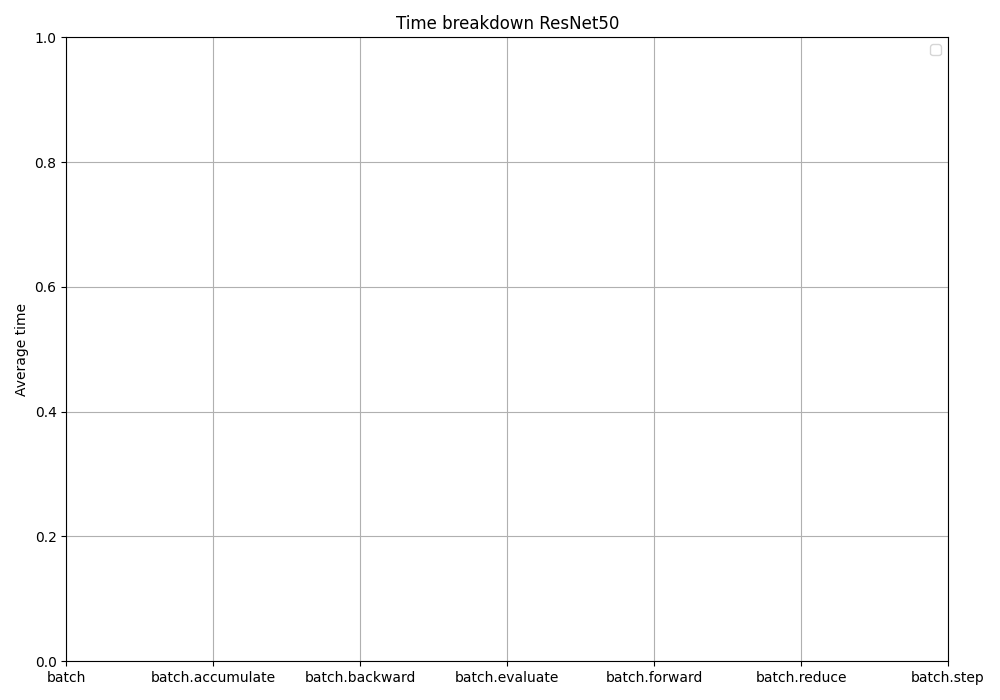
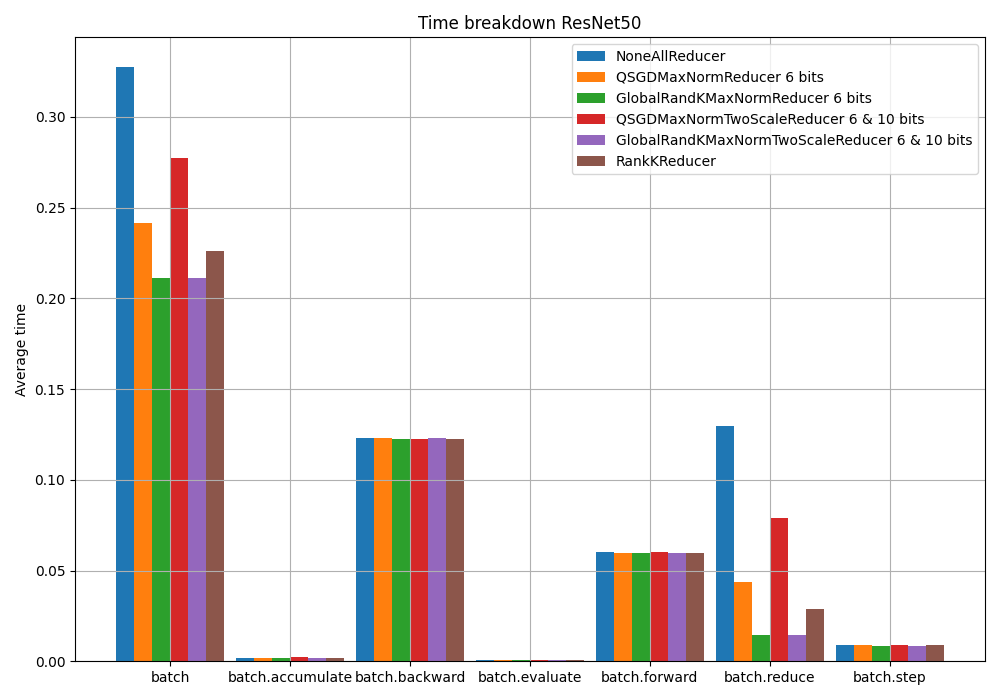
Add logs

diff --git a/socket_com.py b/socket_com.py
@@ -5,7 +5,7 @@ import threading
 
 
 class ServerTCP:
-    def __init__(self, HEADER=64, PORT=5050, SERVER=socket.gethostbyname(socket.gethostname())):
+    def __init__(self, HEADER=64, PORT=5050, MSG_SIZE=100000, SERVER=socket.gethostbyname(socket.gethostname())):
         self.HEADER = HEADER
         self.PORT = PORT
         self.SERVER = SERVER
@@ -28,6 +28,8 @@ class ServerTCP:
             self.RECV_BUF_SIZE)
 
         self.server.bind(self.ADDR)
+
+        self.vector = torch.zeros(MSG_SIZE)
 
         # buffsize = self.server.getsockopt(socket.SOL_SOCKET, socket.SO_SNDBUF)
         # print("Buffer size [After]:%d" % buffsize)
@@ -90,16 +92,23 @@ class ServerTCP:
                 print(f"[DROP CONNECTION] {addr} closed")
                 conn.shutdown(1)
                 conn.close()
+                continue
+
+            self.vector.index_add_(0, msg[:, 0].to(torch.int64), msg[:, 1])
+            print("Vector", self.vector)
 
     def start(self):
         self.server.listen()
         print(f"[LISTENING] Server is listening on {self.SERVER}")
 
-        while True:
-            conn, addr = self.server.accept()
-            thread = threading.Thread(target=self.handle_client, args=(conn, addr))
-            thread.start()
-            print(f"[ACTIVE CONNECTIONS] {threading.activeCount() - 1}")
+        try:
+            while True:
+                conn, addr = self.server.accept()
+                thread = threading.Thread(target=self.handle_client, args=(conn, addr))
+                thread.start()
+                print(f"[ACTIVE CONNECTIONS] {threading.activeCount() - 1}")
+        except KeyboardInterrupt:
+            self.stop()
 
     def stop(self):
         self.server.shutdown(1)
@@ -147,7 +156,7 @@ class ClientTCP:
 
 
 class ServerUDP:
-    def __init__(self, HEADER=64, PORT=5050, SERVER=socket.gethostbyname(socket.gethostname())):
+    def __init__(self, HEADER=64, PORT=5050, MSG_SIZE=100000, SERVER=socket.gethostbyname(socket.gethostname())):
         self.HEADER = HEADER
         self.PORT = PORT
         self.SERVER = SERVER
@@ -171,6 +180,8 @@ class ServerUDP:
 
         self.server.bind(self.ADDR)
 
+        self.vector = torch.zeros(MSG_SIZE)
+
     def encode(self, tensor):
         file = io.BytesIO()
         torch.save(tensor, file)
@@ -193,6 +204,9 @@ class ServerUDP:
         while readnext:
             msg, addr = self.server.recvfrom(1024 * 2)
             self.server.sendto("Message received".encode(self.FORMAT), addr)
+            # print(self.decode(msg))
+            # print(len(msg))
+            # decoded_msg = self.decode(msg)
 
             try:
                 decoded_msg = self.decode(msg)
@@ -205,21 +219,31 @@ class ServerUDP:
             buffer.append(decoded_msg)
 
         if len(buffer) > 1:
-            data = torch.cat(buffer)
+            msg = torch.cat(buffer)
         else:
-            data = buffer
+            msg = buffer[0]
 
-        print(f"[{addr}] {data}")# {data.nelement()}")
+        print(f"[{addr}] {msg}")
+
+        indices = msg[:, 0].to(torch.int64)
+        self.vector.index_add_(0, indices, msg[:, 1])
+        print("Vector", self.vector)
+
         self.server.sendto("Message received".encode(self.FORMAT), addr)
 
     def start(self):
         print(f"[LISTENING] Server is listening on {self.SERVER}")
 
-        while True:
-            self.handle_client()
+        try:
+            while True:
+                self.handle_client()
+        except KeyboardInterrupt:
+            self.stop()
+        # while True:
+        #     self.handle_client()
 
     def stop(self):
-        self.server.shutdown(1)
+        print("Vector", self.vector)
         self.server.close()
 
 

diff --git a/socket_test_client.py b/socket_test_client.py
@@ -3,48 +3,52 @@ import torch
 from socket_com import ClientTCP, ClientUDP
 
 
-# REPS = 1
-# MSG_SIZES = [100000]
-# # MSG_SIZES = [1, 5, 10, 50, 100, 500, 1000, 5e3, 1e4, 5e4, 1e5, 5e5, 1e6, 5e6, 1e7, 25e6]
-# client = ClientTCP(SERVER="10.217.16.13")
-#
-# for msg in MSG_SIZES:
-#     time_sum = 0
-#     for i in range(REPS):
-#         start = time.time()
-#
-#         client.send(torch.arange(msg).to(torch.float32))
-#         time_elapsed = time.time() - start
-#         time_sum += time_elapsed
-#         # print(time_elapsed)
-#
-#     print("Total: ", time_sum)
-#     print(f"MSG: [{msg}] Avg Time: {time_sum / REPS}")
+# use_TCP = True
+use_TCP = False
 
-REPS = 1
-MSG_SIZES = [100000]
-# MSG_SIZES = [1, 5, 10, 50, 100, 500, 1000, 5e3, 1e4, 5e4, 1e5, 5e5, 1e6, 5e6, 1e7, 25e6]
-client = ClientUDP(SERVER="10.217.16.13")
+if use_TCP:
+    REPS = 1
+    MSG_SIZES = [1000]
+    # MSG_SIZES = [1, 5, 10, 50, 100, 500, 1000, 5e3, 1e4, 5e4, 1e5, 5e5, 1e6, 5e6, 1e7, 25e6]
+    client = ClientTCP(SERVER="10.216.18.179")
 
+    for msg in MSG_SIZES:
+        time_sum = 0
+        for i in range(REPS):
+            start = time.time()
 
-for msg in MSG_SIZES:
-    time_sum = 0
-    for i in range(REPS):
-        CHUNK = 100
-        messages = torch.arange(msg, dtype=torch.float32).split(CHUNK)
+            client.send(torch.cat([torch.arange(msg).unsqueeze(1), 2 * torch.arange(msg).unsqueeze(1)], dim=-1).to(torch.float32))
+            # client.send(torch.arange(msg).to(torch.float32)#.to_sparse())
+            time_elapsed = time.time() - start
+            time_sum += time_elapsed
+            # print(time_elapsed)
 
-        start = time.time()
-        for message in messages:
-            client.send(message.clone())
+        print("Total: ", time_sum)
+        print(f"MSG: [{msg}] Avg Time: {time_sum / REPS}")
+else:
+    REPS = 1
+    MSG_SIZES = [1000]
+    # MSG_SIZES = [1, 5, 10, 50, 100, 500, 1000, 5e3, 1e4, 5e4, 1e5, 5e5, 1e6, 5e6, 1e7, 25e6]
+    client = ClientUDP(SERVER="10.216.18.179")
 
-            # import time
-            # time.sleep(5e-3)
+    for msg in MSG_SIZES:
+        time_sum = 0
+        for i in range(REPS):
+            CHUNK = 100
+            messages = torch.cat([torch.arange(msg).unsqueeze(1), 1 * torch.arange(msg).unsqueeze(1)], dim=-1).to(torch.float32).split(CHUNK)
 
-        time_elapsed = time.time() - start
-        time_sum += time_elapsed
-        # print(time_elapsed)
+            start = time.time()
+            for message in messages:
+                client.send(message.clone())
 
-    print("Total: ", time_sum)
-    print(f"MSG: [{msg}] Avg Time: {time_sum / REPS}")
+                import time
+                time.sleep(0.001)
+
+            time_elapsed = time.time() - start
+            time_sum += time_elapsed
+            # print(time_elapsed)
+
+        print("Total: ", time_sum)
+        print(f"MSG: [{msg}] Avg Time: {time_sum / REPS}")
 
 client.send(torch.tensor(float("inf")))

diff --git a/utils.py b/utils.py
@@ -421,7 +421,7 @@ def plot_time_breakdown(log_path):
                 else:
                     label = reducer
 
-            time_df = pd.read_json(os.path.join(experiment, "timer_summary.json")).loc["average_duration"]
+            time_df = pd.read_json(os.path.join(experiment, "timer_summary_0.json")).loc["average_duration"]
             time_values = time_df[time_labels].values
 
             plt.bar(
@@ -1311,12 +1311,12 @@ def plot_performance_modelling(log_path):
 if __name__ == "__main__":
     root_log_path = "./logs/plot_logs/"
 
-    plot_loss_curves(os.path.join(root_log_path, "convergence"))
-    plot_top1_accuracy_curves(os.path.join(root_log_path, "convergence"))
+    # plot_loss_curves(os.path.join(root_log_path, "convergence"))
+    # plot_top1_accuracy_curves(os.path.join(root_log_path, "convergence"))
     # plot_top1_accuracy_time_curves(os.path.join(root_log_path, "convergence"))
     # plot_top5_accuracy_curves(os.path.join(root_log_path, "convergence"))
     # plot_time_per_batch_curves(os.path.join(root_log_path, "convergence"))
-    # plot_time_breakdown(os.path.join(root_log_path, "time_breakdown"))
+    plot_time_breakdown(os.path.join(root_log_path, "time_breakdown"))
     # plot_time_scalability(os.path.join(root_log_path, 'scalability'))
     # plot_throughput_scalability(os.path.join(root_log_path, 'scalability'))
     # plot_waiting_times(os.path.join(root_log_path, 'waiting_times'))

diff --git a/socket_test_server.py b/socket_test_server.py
@@ -1,6 +1,7 @@
 from socket_com import ServerTCP, ServerUDP
 
-# server = ServerTCP(SERVER="10.217.16.13")
-server = ServerUDP(SERVER="10.217.16.13")
+# server = ServerTCP(SERVER="10.216.18.179", MSG_SIZE=100000)
+server = ServerUDP(SERVER="10.216.18.179", MSG_SIZE=10000)
+
 
 server.start()
